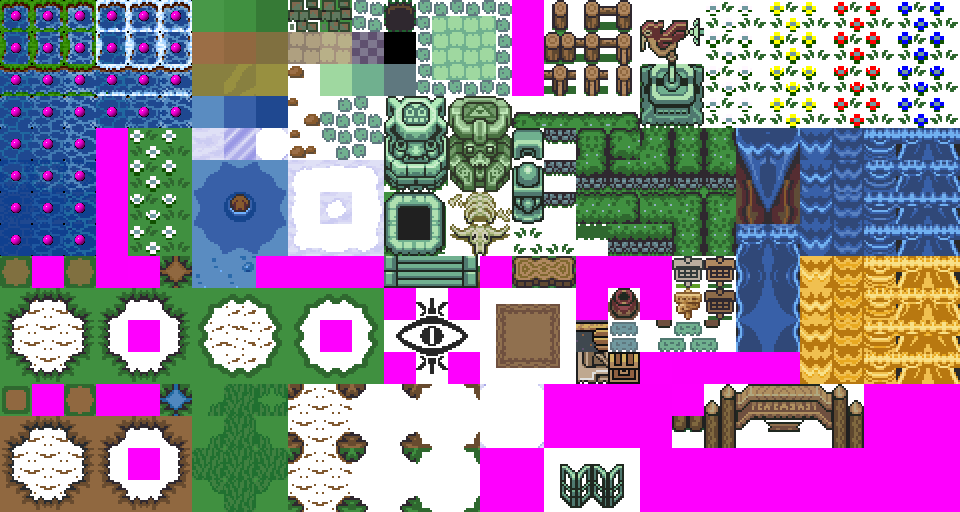
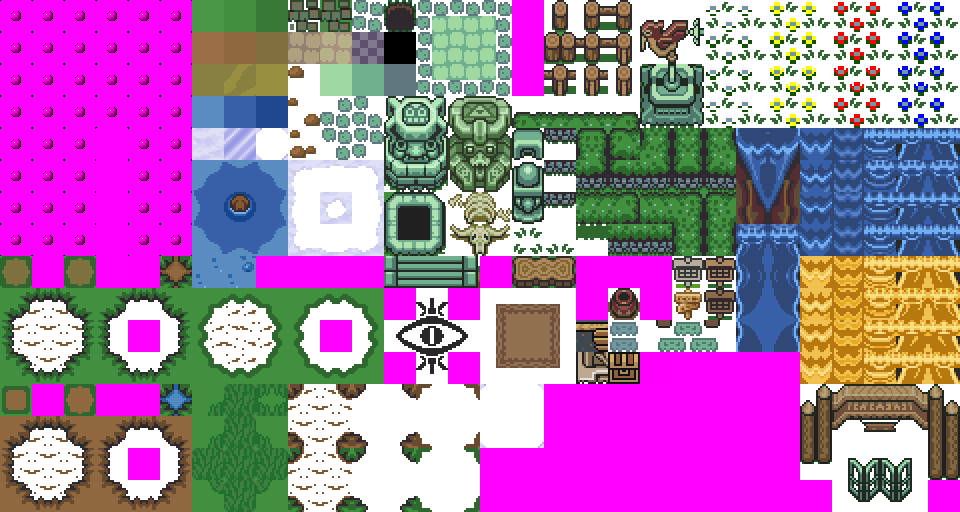
Added alot of animated tiles, and also some cleanups in the tilesets when they are using the animated tiles instead, maps are fixed to work with the changes in tilesets.

Changed region(s): [[0.0, 0.0, 0.2188, 0.5], [0.6875, 0.75, 1.0, 1.0], [0.5625, 0.875, 0.6875, 1.0]]

diff --git a/src/games/stendhal/client/TileRenderer.java b/src/games/stendhal/client/TileRenderer.java
@@ -121,20 +121,110 @@ public class TileRenderer
     // Navigation = 2400 - 2400
     // Objects = 2401 - 2500
     // Collision = 2501 - 2502
-    // Outside_3 = 2503 - 2982
+    // Outside_2 = 2503 - 2982
 
 
-    // Double daisy
-    addAnimatedTile(124,new int[]{124,154,184,214,214,214,214,214,214,214,214,214});
-    addAnimatedTile(154,new int[]{154,184,214,124,124,124,124,124,124,124,124,124});
-    addAnimatedTile(184,new int[]{184,214,124,154,154,154,154,154,154,154,154,154});
-    addAnimatedTile(214,new int[]{214,124,154,184,184,184,184,184,184,184,184,184});
+    // Double white daisy
+    addAnimatedTile(22,new int[]{22,52,82,112,112,112,112,112,112,112,112,112});
+    addAnimatedTile(52,new int[]{52,82,112,22,22,22,22,22,22,22,22,22});
+    addAnimatedTile(82,new int[]{82,112,22,52,52,52,52,52,52,52,52,52});
+    addAnimatedTile(112,new int[]{112,22,52,82,82,82,82,82,82,82,82,82});
 
-    // Single daisy
-    addAnimatedTile(125,new int[]{125,155,185,215,215,215,215,215,215,215,215,215});
-    addAnimatedTile(155,new int[]{155,185,215,125,125,125,125,125,125,125,125,125});
-    addAnimatedTile(185,new int[]{185,215,125,155,155,155,155,155,155,155,155,155});
-    addAnimatedTile(215,new int[]{215,125,155,185,185,185,185,185,185,185,185,185});
+    // Single white daisy
+    addAnimatedTile(23,new int[]{23,53,83,113,113,113,113,113,113,113,113,113});
+    addAnimatedTile(53,new int[]{53,83,113,23,23,23,23,23,23,23,23,23});
+    addAnimatedTile(83,new int[]{83,113,23,53,53,53,53,53,53,53,53,53});
+    addAnimatedTile(113,new int[]{113,23,53,83,83,83,83,83,83,83,83,83});
+
+    // Double yellow daisy
+    addAnimatedTile(24,new int[]{24,54,84,114,114,114,114,114,114,114,114,114});
+    addAnimatedTile(54,new int[]{54,84,114,24,24,24,24,24,24,24,24,24});
+    addAnimatedTile(84,new int[]{84,114,24,54,54,54,54,54,54,54,54,54});
+    addAnimatedTile(114,new int[]{114,24,54,84,84,84,84,84,84,84,84,84});
+    
+    // Single yellow daisy
+    addAnimatedTile(25,new int[]{25,55,85,115,115,115,115,115,115,115,115,115});
+    addAnimatedTile(55,new int[]{55,85,115,25,25,25,25,25,25,25,25,25});
+    addAnimatedTile(85,new int[]{85,115,25,55,55,55,55,55,55,55,55,55});
+    addAnimatedTile(115,new int[]{115,25,55,85,85,85,85,85,85,85,85,85});
+    
+    // Double red daisy
+    addAnimatedTile(26,new int[]{26,56,86,116,116,116,116,116,116,116,116,116});
+    addAnimatedTile(56,new int[]{56,86,116,26,26,26,26,26,26,26,26,26});
+    addAnimatedTile(86,new int[]{86,116,26,56,56,56,56,56,56,56,56,56});
+    addAnimatedTile(116,new int[]{116,26,56,86,86,86,86,86,86,86,86,86});
+    
+    // Single red daisy
+    addAnimatedTile(27,new int[]{27,57,87,117,117,117,117,117,117,117,117,117});
+    addAnimatedTile(57,new int[]{57,87,117,27,27,27,27,27,27,27,27,27});
+    addAnimatedTile(87,new int[]{87,117,27,57,57,57,57,57,57,57,57,57});
+    addAnimatedTile(117,new int[]{117,27,57,87,87,87,87,87,87,87,87,87});
+
+    // Double blue daisy
+    addAnimatedTile(28,new int[]{28,58,88,118,118,118,118,118,118,118,118,118});
+    addAnimatedTile(58,new int[]{58,88,118,28,28,28,28,28,28,28,28,28});
+    addAnimatedTile(88,new int[]{88,118,28,58,58,58,58,58,58,58,58,58});
+    addAnimatedTile(118,new int[]{118,28,58,88,88,88,88,88,88,88,88,88});
+
+    // Single blue daisy
+    addAnimatedTile(29,new int[]{29,59,89,119,119,119,119,119,119,119,119,119});
+    addAnimatedTile(59,new int[]{59,89,119,29,29,29,29,29,29,29,29,29});
+    addAnimatedTile(89,new int[]{89,119,29,59,59,59,59,59,59,59,59,59});
+    addAnimatedTile(119,new int[]{119,29,59,89,89,89,89,89,89,89,89,89});
+
+
+
+    // Green Water, Upper Left 
+    addAnimatedTile(2503,new int[]{2503,2506,2509,2506});
+    addAnimatedTile(2506,new int[]{2506,2509,2506,2503});
+    addAnimatedTile(2509,new int[]{2509,2506,2503,2506});
+
+    // Green Water, Upper
+    addAnimatedTile(2504,new int[]{2504,2507,2510,2507});
+    addAnimatedTile(2507,new int[]{2507,2510,2507,2504});
+    addAnimatedTile(2510,new int[]{2510,2507,2504,2507});
+
+    // Green Water, Upper Right 
+    addAnimatedTile(2505,new int[]{2505,2508,2511,2508});
+    addAnimatedTile(2508,new int[]{2508,2511,2508,2505});
+    addAnimatedTile(2511,new int[]{2511,2508,2505,2508});
+    
+    // Green Water, Left
+    addAnimatedTile(2533,new int[]{2533,2536,2539,2536});
+    addAnimatedTile(2536,new int[]{2536,2539,2536,2533});
+    addAnimatedTile(2539,new int[]{2539,2536,2533,2536});
+
+    // Green Water, pond
+    addAnimatedTile(2534,new int[]{2534,2537,2540,2537});
+    addAnimatedTile(2537,new int[]{2537,2540,2537,2534});
+    addAnimatedTile(2540,new int[]{2540,2537,2534,2537});
+
+    // Green Water, Right
+    addAnimatedTile(2535,new int[]{2535,2538,2541,2538});
+    addAnimatedTile(2538,new int[]{2538,2541,2538,2535});
+    addAnimatedTile(2541,new int[]{2541,2538,2535,2538});
+    
+    // Green Water, Bottom Left
+    addAnimatedTile(2563,new int[]{2563,2566,2569,2566});
+    addAnimatedTile(2566,new int[]{2566,2569,2566,2563});
+    addAnimatedTile(2569,new int[]{2569,2566,2563,2566});
+
+    // Green Water, Bottom 
+    addAnimatedTile(2564,new int[]{2564,2567,2570,2567});
+    addAnimatedTile(2567,new int[]{2567,2570,2567,2564});
+    addAnimatedTile(2570,new int[]{2570,2567,2564,2567});
+
+    // Green Water, Bottom Right
+    addAnimatedTile(2565,new int[]{2565,2568,2571,2568});
+    addAnimatedTile(2568,new int[]{2568,2571,2568,2565});
+    addAnimatedTile(2571,new int[]{2571,2568,2565,2568});
+
+    // Water, Center
+    addAnimatedTile(2689,new int[]{2689,2690,2691,2690});
+    addAnimatedTile(2690,new int[]{2690,2691,2690,2689});
+    addAnimatedTile(2691,new int[]{2691,2690,2689,2690});
+
+
 
     // Waterfall start
     addAnimatedTile(145,new int[]{145,175,205,235});
@@ -197,6 +287,38 @@ public class TileRenderer
     addAnimatedTile(329,new int[]{329,359,269,299});
     addAnimatedTile(359,new int[]{359,269,299,329});
 
+
+    // Dungeon_1 = 1440 - 1919
+
+    // Golden Teleport 
+    addAnimatedTile(1443,new int[]{1443,1444,1445});
+    addAnimatedTile(1444,new int[]{1444,1445,1443});
+    addAnimatedTile(1445,new int[]{1445,1443,1444});
+    
+    // White Teleport 
+    addAnimatedTile(1473,new int[]{1473,1474,1475});
+    addAnimatedTile(1474,new int[]{1474,1475,1473});
+    addAnimatedTile(1475,new int[]{1475,1473,1474});
+
+    // Gray Teleport 
+    addAnimatedTile(1503,new int[]{1503,1504,1505});
+    addAnimatedTile(1504,new int[]{1504,1505,1503});
+    addAnimatedTile(1505,new int[]{1505,1503,1504});
+
+    // Red Teleport 
+    addAnimatedTile(1533,new int[]{1533,1534,1535});
+    addAnimatedTile(1534,new int[]{1534,1535,1533});
+    addAnimatedTile(1535,new int[]{1535,1533,1534});
+
+    // Green Teleport 
+    addAnimatedTile(1563,new int[]{1563,1564,1565});
+    addAnimatedTile(1564,new int[]{1564,1565,1563});
+    addAnimatedTile(1565,new int[]{1565,1563,1564});
+
+    // Blue Teleport 
+    addAnimatedTile(1593,new int[]{1593,1594,1595});
+    addAnimatedTile(1594,new int[]{1594,1595,1593});
+    addAnimatedTile(1595,new int[]{1595,1593,1594});
     }
   
   /** Render the data to screen. We assume that Gamescreen will clip.
